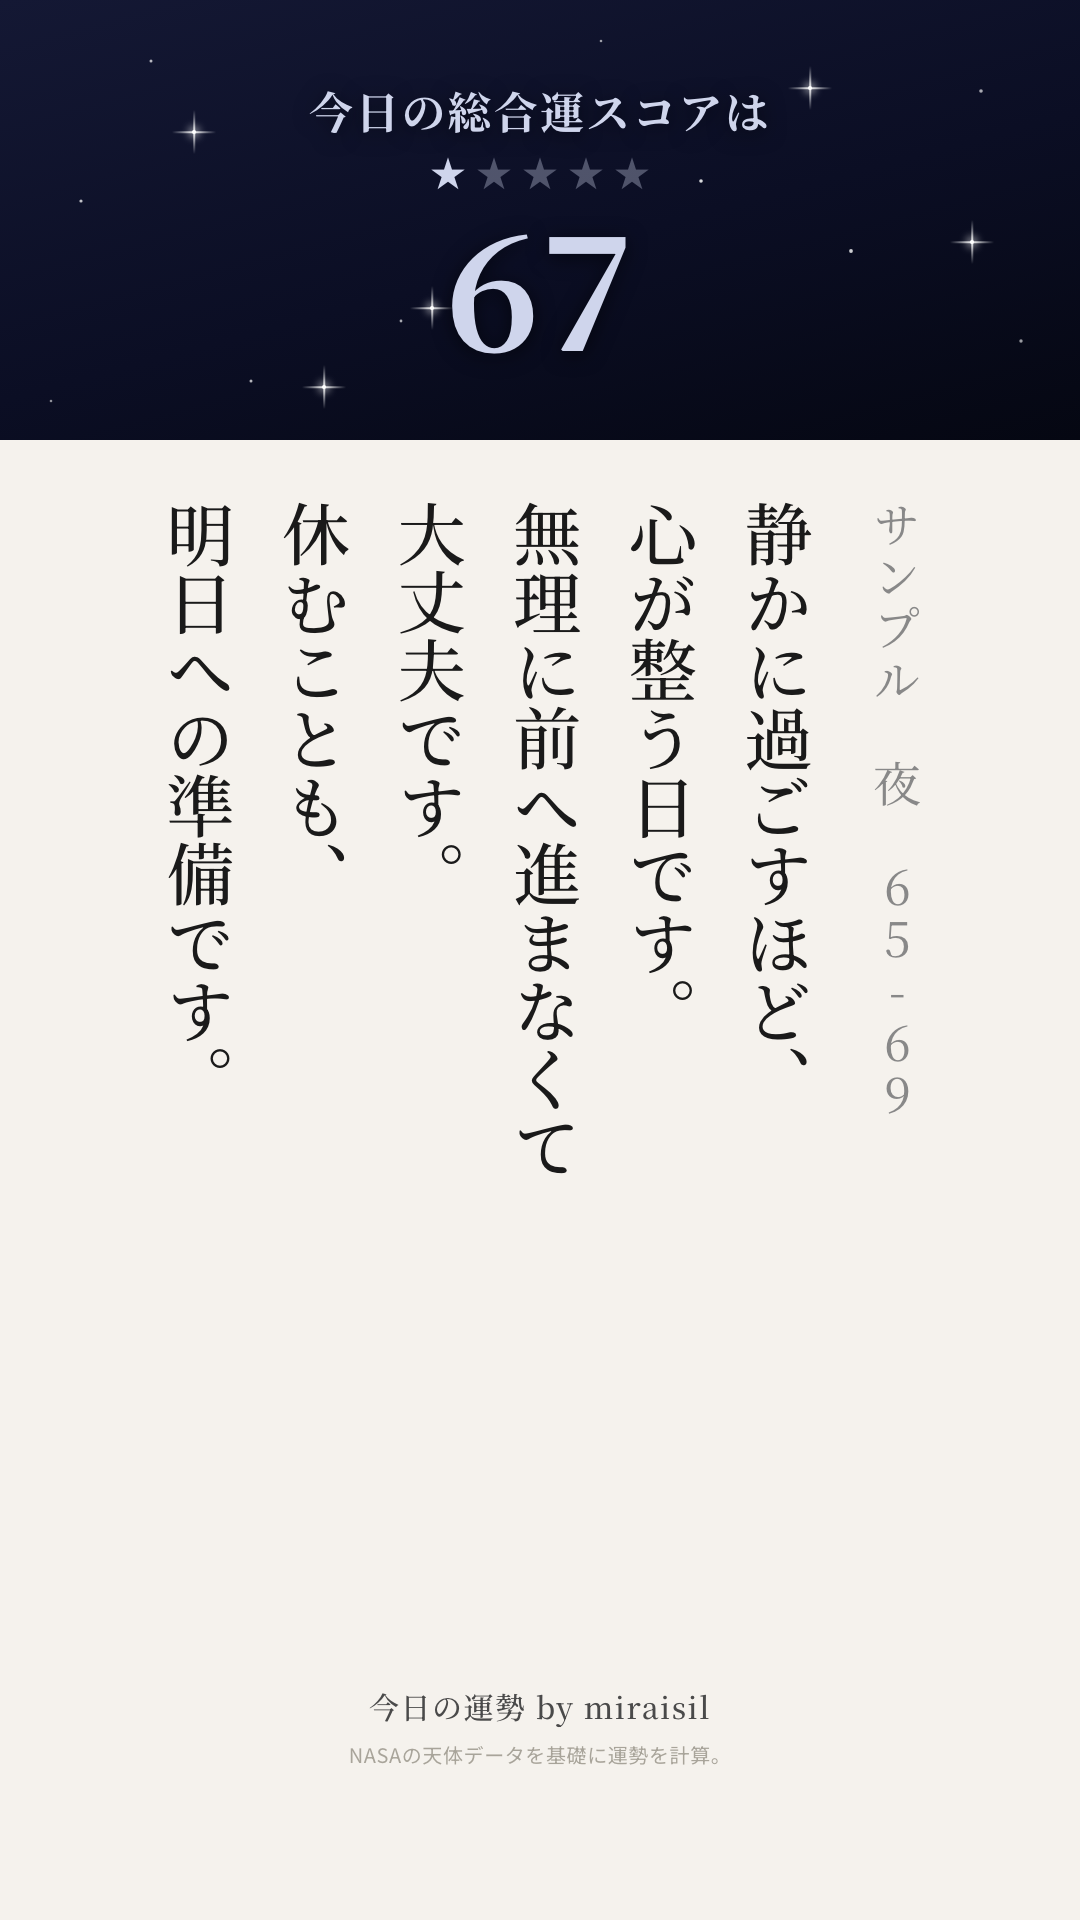
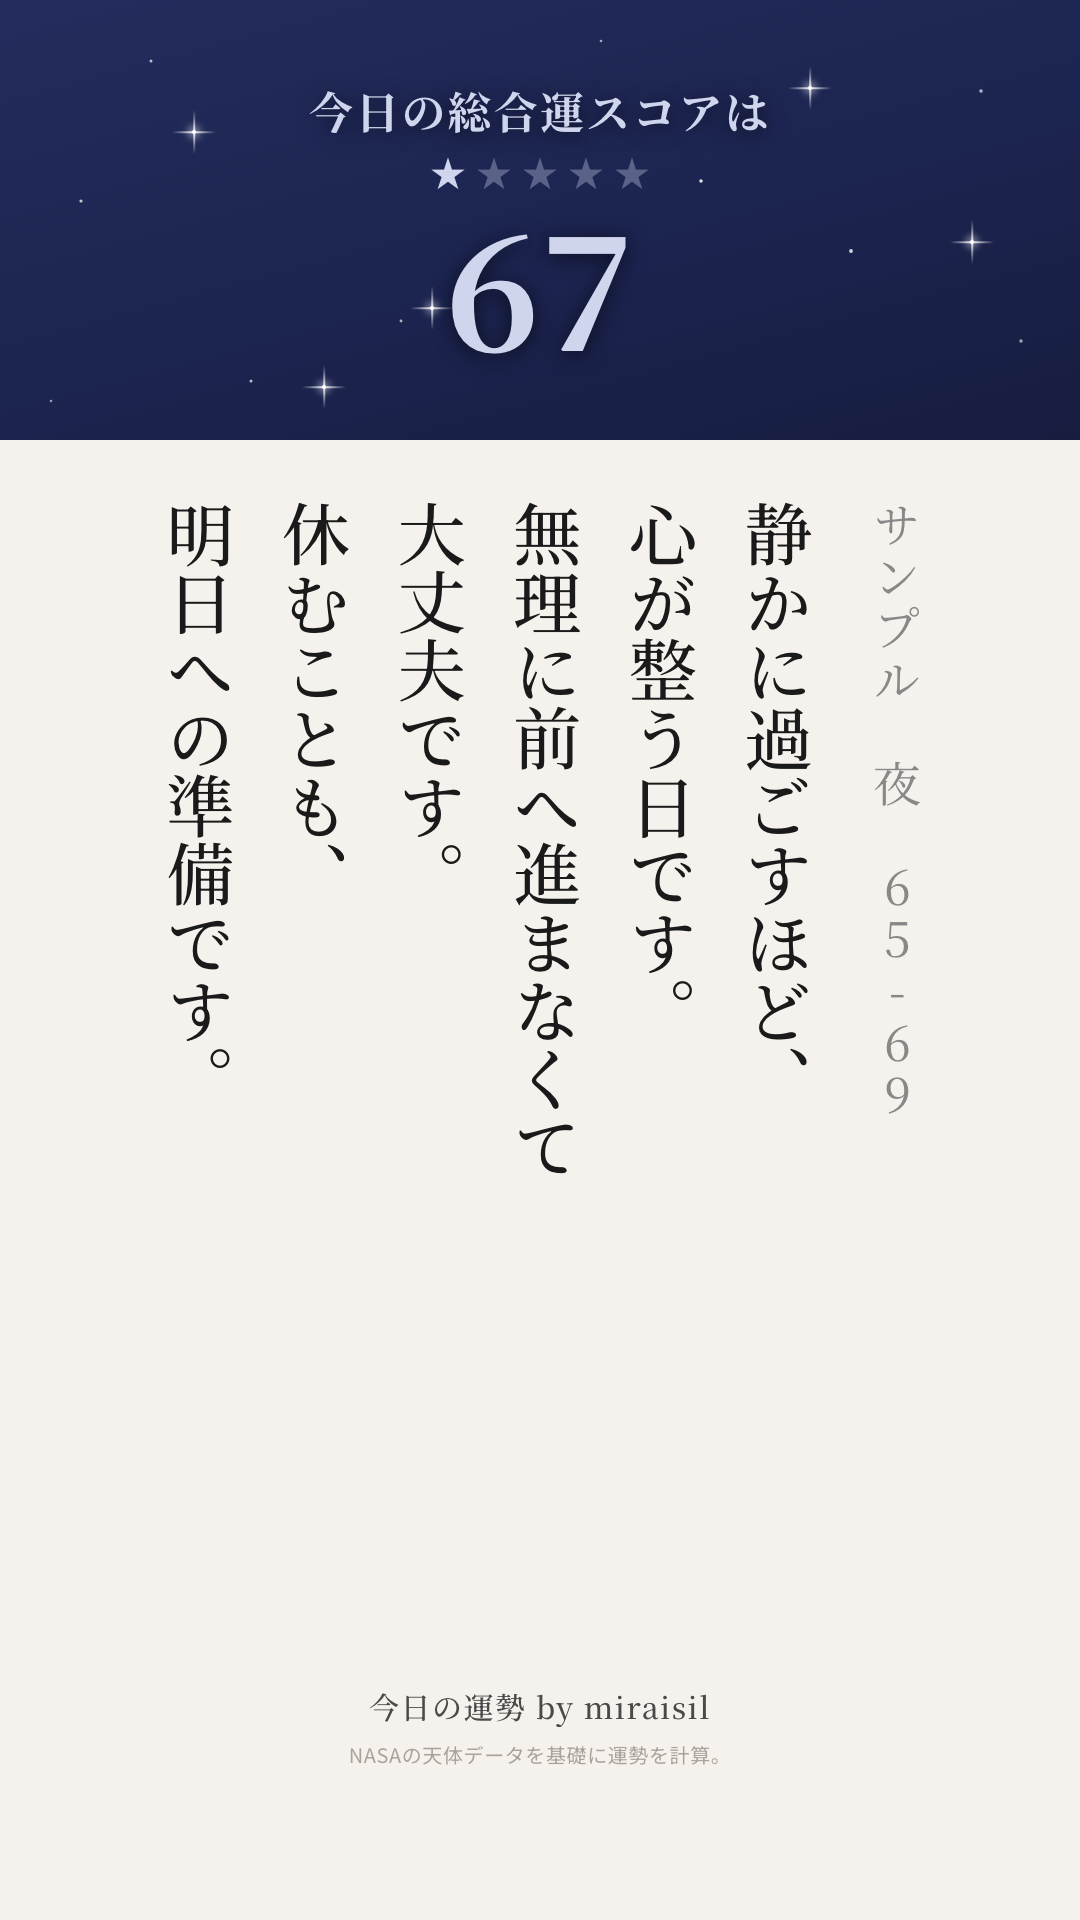
apply candidate C to 65-69, with the nebula/soft glow stripped out
User picked candidate C (brightest of the 3 "universe" iterations) but
asked for the nebula removed. Rebuilt as a plain brighter navy gradient
with only crisp box-shadow stars (no diffuse glow layer) -- reuses the
already-reconstructed 15-star set, which never had a nebula to begin
with.

Changed region(s): [[0.0, 0.0, 1.0, 0.25]]

diff --git a/sky-test/index.html b/sky-test/index.html
@@ -103,5 +103,21 @@
 候補Cが「明るくなった宇宙」ラインの最後の調整（"brighten 70-79 bg"）で、最も明るく
 仕上がっています。どの案を67(夜・65-69)に適用するか選んでください。
 </div>
+
+<h2>差し替え結果：67(夜・65-69) ← 候補C（星雲なし）</h2>
+<div class="note">
+候補Cを選択、ただし星雲（ネビュラ・柔らかい光の雲）は除去のご指示。候補Cの画像には
+星の周りに柔らかい光の滲みが見えていたため、これを排除し、背景は候補Cと同じ明るい藍の
+グラデーション、星はcrisp（にじみのない点）な15個のみ（小さな点10＋光条つきの明るい
+星5、67の元のデザインから流用）で再構築しました。<br>
+97〜72の他6段はまったく変更していません。
+</div>
+<div class="row">
+  <figure><img src="band_67.png"><figcaption>67点 夜 65-69 ★1<br>候補Cベース・星雲除去・星は15個のまま</figcaption></figure>
+</div>
+<div class="note">
+星雲（柔らかい光の滲み）が残っていないか、背景の明るさが候補Cと同程度か確認して
+ください。このコードはまだ dataunsei-automation にコミットしていません。
+</div>
 </body>
 </html>
